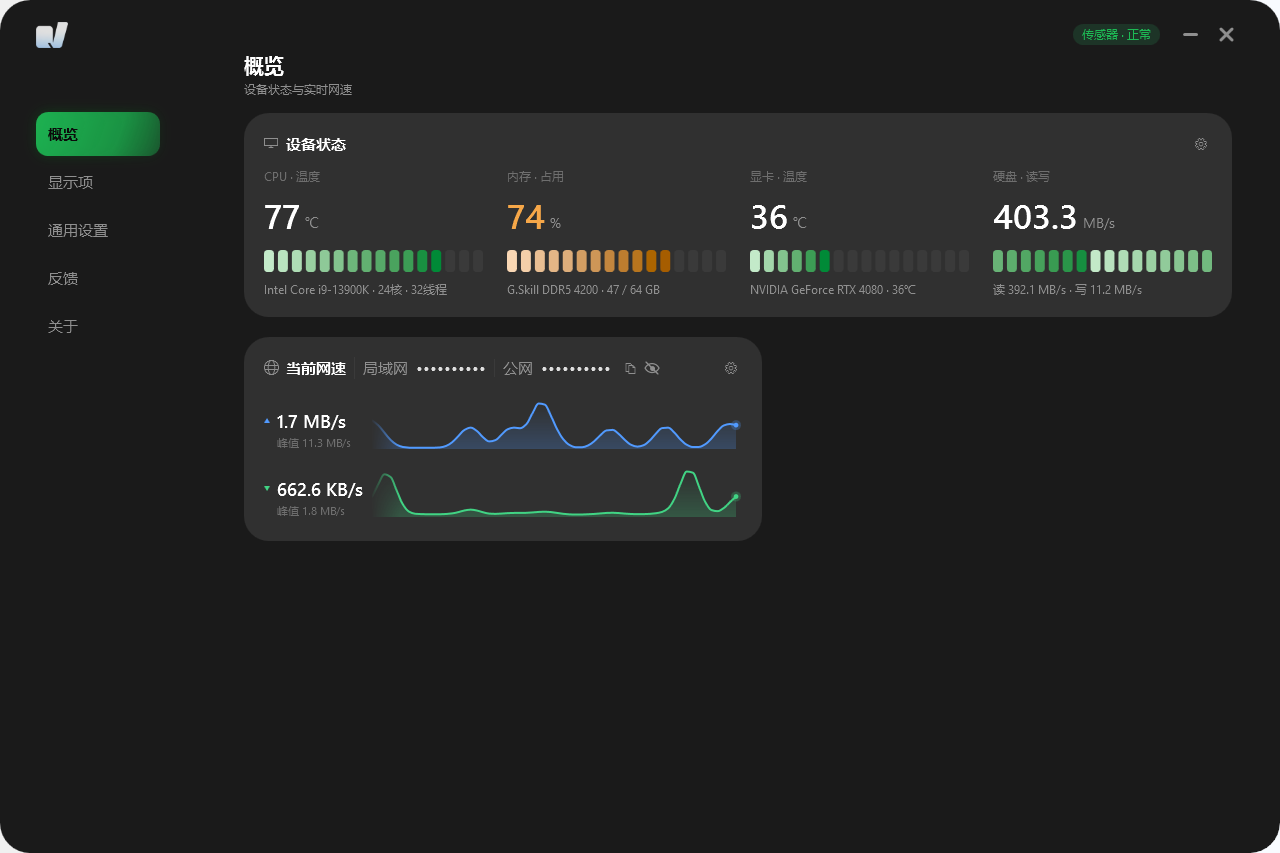
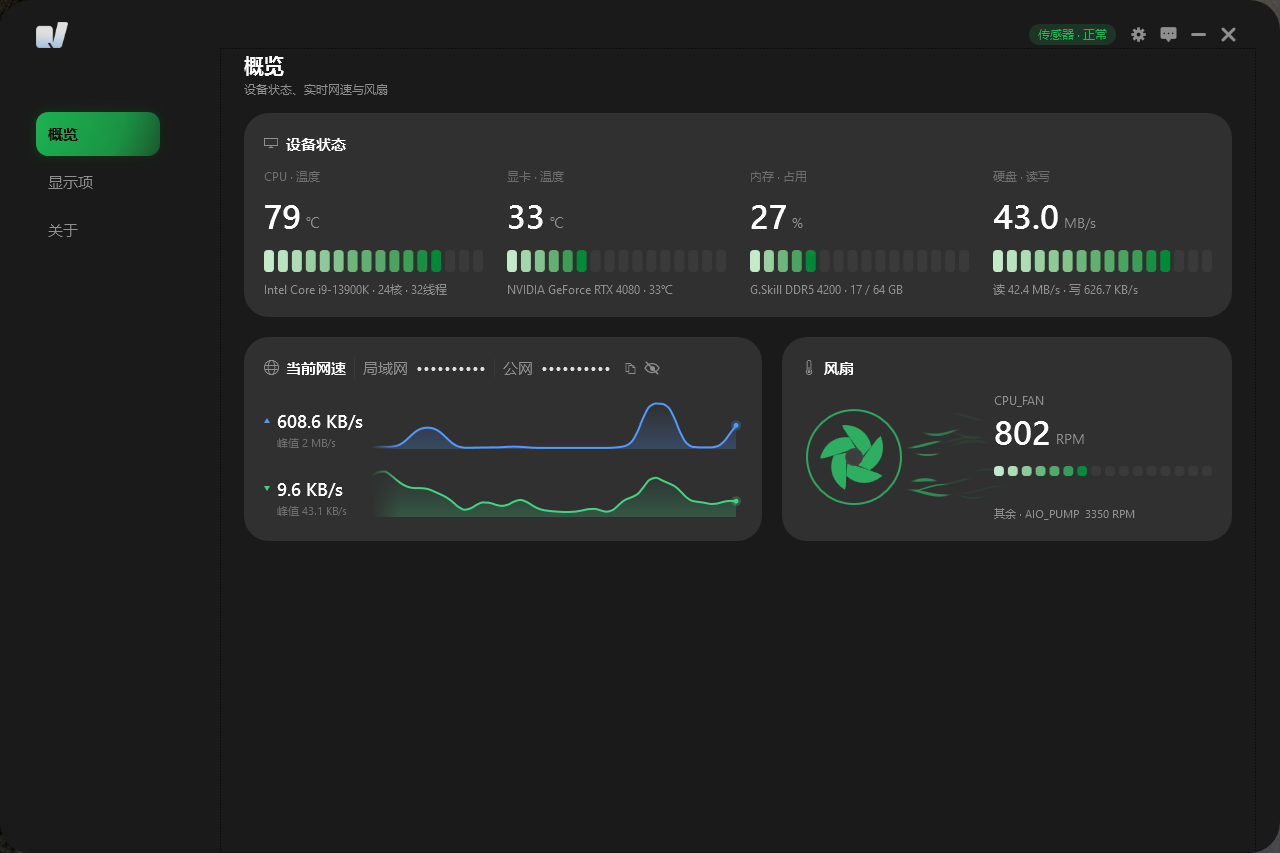
chore(release): 0.9.7
- 版本号 0.9.7，README 当前版本同步
- 更新说明采用用户改写稿（11 条）

diff --git a/src/QuadVitals.Core/ProductVersion.cs b/src/QuadVitals.Core/ProductVersion.cs
@@ -16,6 +16,6 @@ namespace QuadVitals.Core
     public static class ProductVersion
     {
         /// <summary>Readable version, also what the feedback upload reports as <c>appVersion</c>.</summary>
-        public const string SemVer = "0.9.6";
+        public const string SemVer = "0.9.7";
     }
 }

diff --git a/CHANGELOG.md b/CHANGELOG.md
@@ -1,5 +1,23 @@
 QuadVitals 更新明细
 
+## 0.9.7
+摘要：
+新增概览页风扇转速卡与、优化仪表盘后台行为、悬停播放与常驻动画双模式
+
+明细：
+01. 概览页新增风扇卡，展示主板风扇转速与气流状态，动画速率随转速变化。
+02. 风扇通道名称按主板丝印标识展示，可通过卡片设置菜单选择显示通道。
+03. 新增悬停播放与常驻动画两种风扇动效模式，切换至常驻动画前提示资源占用。
+04. 托盘诊断信息窗口改为深色主题，展示缺失指标、采样周期及日志路径。
+05. 新增电池供电模式下暂停动画，可在通用设置中关闭该限制。
+06. 水泵状态固定为青色并带呼吸光晕，不再依据风扇阈值触发告警。
+07. 风扇停转时卡片显示 0 RPM 并使用告警色，与通道未读取状态区分。
+08. 温度与风扇空态提示区分传感器权限不足与读取失败。
+09. 优化仪表盘后台行为：失焦停止绘制，采集及曲线记录持续，恢复前台后统一补绘。
+10. 优化 DRP 及纯软件渲染环境下的动画策略，暂停动画，数值与曲线仍按周期刷新。
+11. 修复保存常驻动画设置后风扇停止转动的问题。
+
+
 ## 0.9.6
 摘要：
 调整反馈、通用设置入口，新增任务栏右键菜单重启传感器与退出
